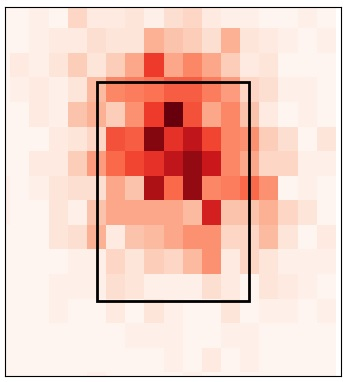
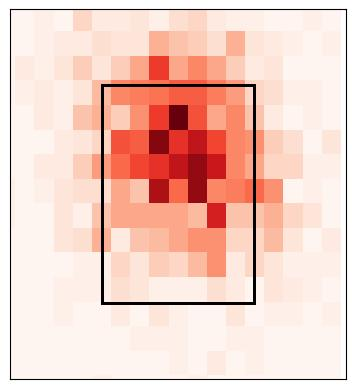
Added Default Heatmap

diff --git a/frontend/src/components/ViewPredictions.vue b/frontend/src/components/ViewPredictions.vue
@@ -79,7 +79,7 @@ export default {
   data() {
     return {
       curr_pitcher: "",
-      imageURL:[require("@/assets/strikezone.jpg"),
+      imageURL:[require("@/assets/default_heat_map.jpg"),
                 require("@/assets/FF_heat_map.jpg"),
                 require("@/assets/SL_heat_map.jpg"),
                 require("@/assets/CU_heat_map.jpg"),

diff --git a/backend/create_heatmap.py b/backend/create_heatmap.py
@@ -19,7 +19,7 @@ def make_heat_map(pitch_type):
     heatmap, xedges, yedges = np.histogram2d(df["plate_x"], df["plate_z"], bins=20)
 
     # Change the backround color
-    #plt.figure(facecolor="gray")
+    # plt.figure(facecolor="gray")
 
     # Plot the heat map
     plt.imshow(heatmap.T, extent=[xedges[0], xedges[-1], yedges[0], yedges[-1]], origin='lower', cmap='Reds')
@@ -54,16 +54,54 @@ def make_heat_map(pitch_type):
     # file_name = pitch_type + "_heat_map.jpg"
     plt.savefig(file_name, bbox_inches='tight', pad_inches=0.1)
 
-    return file_name
+    #return file_name
+
+
+# This function is used to create the default strike zone
+def create_default_strike_zone():
+    path='../uploads/savant_data_2.csv'
+    df = pd.read_csv(path)
+
+    # Extract values
+    df = df[df['pitch_type'] == ""]
+
+    # Create a 2D histogram
+    heatmap, xedges, yedges = np.histogram2d(df["plate_x"], df["plate_z"], bins=20)
+
+    # Change the backround color
+    # plt.figure(facecolor="gray")
+
+    # Plot the heat map
+    plt.imshow(heatmap.T, extent=[xedges[0], xedges[-1], yedges[0], yedges[-1]], origin='lower', cmap="Greys")
+
+    # Set custom limits for the x and y-axis
+    plt.xlim(-2., 2)
+    plt.ylim(.3, 4.7)
+
+    # Add a custom box or rectangle
+    custom_box = patches.Rectangle((-.9, 1.2), 1.8, 2.6, linewidth=2, edgecolor='black', facecolor='none', label='Custom Box')
+    plt.gca().add_patch(custom_box)
+
+    # Remove tics
+    plt.xticks([])
+    plt.yticks([])
+
+    # Display the plot
+    # plt.show()
+
+    #Export the plot
+    file_name = r"..\frontend\src\assets\default_heat_map.jpg"
+    plt.savefig(file_name, bbox_inches='tight', pad_inches=0.1)
+
 
 def main():
 
+    create_default_strike_zone()
     make_heat_map("FF")
-    make_heat_map("SL")
+    '''make_heat_map("SL")
     make_heat_map("CU")
-    make_heat_map("CH")
+    make_heat_map("CH")'''
 
 
-if __name__ == '__main__':
-    unittest.main()
+main()
 
